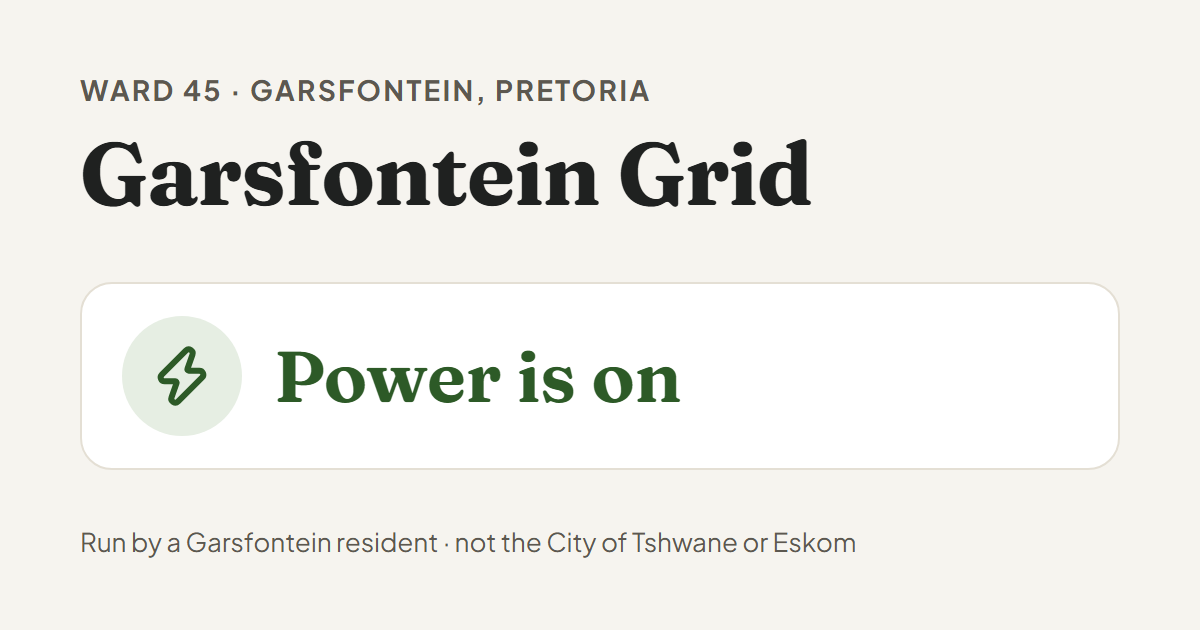
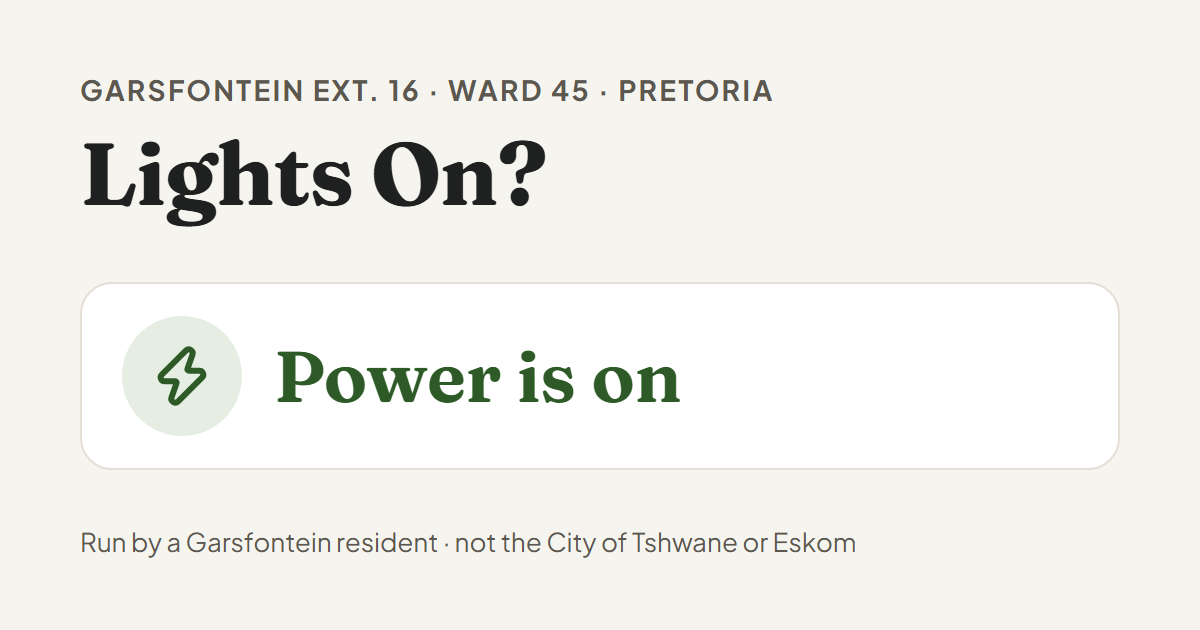
Rename to Lights On, Garsfontein? and name Extension 16
The detector is in Garsfontein Extension 16 (Ward 45), so the copy says so.
Short name fits the home screen; OG cards regenerated. The Worker and D1
names keep the old slug so the deployment is unaffected.

Changed region(s): [[0.0617, 0.2111, 0.6783, 0.3619], [0.0617, 0.1206, 0.6475, 0.181]]

diff --git a/index.html b/index.html
@@ -12,10 +12,10 @@
         } catch (e) {}
       })();
     </script>
-    <title>Garsfontein Grid · Is the power on in Garsfontein, Pretoria?</title>
+    <title>Lights On, Garsfontein? · Is the power on in Garsfontein, Pretoria?</title>
     <meta
       name="description"
-      content="Is the power on in Garsfontein? Live status and a running record of power cuts in Garsfontein (Ward 45, Region 6, City of Tshwane), Pretoria, kept since 17 October 2026."
+      content="Is the power on in Garsfontein? Live status and a running record of power cuts in Garsfontein, Pretoria (measured in Extension 16, Ward 45, Region 6, City of Tshwane), kept since 17 October 2026."
     />
     <link rel="canonical" href="https://garsfontein.timothybrits.co.za/" />
     <meta name="theme-color" content="#F6F4EF" media="(prefers-color-scheme: light)" />
@@ -27,10 +27,10 @@
     <link rel="preload" as="font" type="font/woff2" crossorigin href="/fonts/plus-jakarta-sans-latin-wght.woff2" />
 
     <meta property="og:type" content="website" />
-    <meta property="og:site_name" content="Garsfontein Grid" />
+    <meta property="og:site_name" content="Lights On, Garsfontein?" />
     <meta property="og:locale" content="en_ZA" />
     <meta property="og:url" content="https://garsfontein.timothybrits.co.za/" />
-    <meta property="og:title" content="Garsfontein Grid · Is the power on in Garsfontein?" />
+    <meta property="og:title" content="Lights On, Garsfontein? · Is the power on in Garsfontein?" />
     <meta
       property="og:description"
       content="Live power status and a running record of outages in Garsfontein, Pretoria."
@@ -38,21 +38,21 @@
     <meta property="og:image" content="https://garsfontein.timothybrits.co.za/og.png" />
     <meta property="og:image:width" content="1200" />
     <meta property="og:image:height" content="630" />
-    <meta property="og:image:alt" content="Garsfontein Grid: current power status in Garsfontein, Pretoria" />
+    <meta property="og:image:alt" content="Lights On? Current power status in Garsfontein, Pretoria" />
     <meta name="twitter:card" content="summary_large_image" />
 
     <script type="application/ld+json">
       {
         "@context": "https://schema.org",
         "@type": "Service",
-        "name": "Garsfontein Grid",
+        "name": "Lights On, Garsfontein?",
         "alternateName": "Garsfontein power status",
         "description": "An open record of power cuts for homes on the Garsfontein substation in Pretoria, kept since 17 October 2026. Run by a local resident; not affiliated with the City of Tshwane or Eskom.",
         "url": "https://garsfontein.timothybrits.co.za/",
         "serviceType": "Power outage tracking",
         "areaServed": {
           "@type": "AdministrativeArea",
-          "name": "Garsfontein, Ward 45, Pretoria",
+          "name": "Garsfontein Extension 16, Ward 45, Pretoria",
           "containedInPlace": {
             "@type": "AdministrativeArea",
             "name": "Region 6, City of Tshwane",
@@ -79,8 +79,8 @@
       <div class="gg-shell">
         <header class="gg-masthead">
           <div>
-            <p class="gg-eyebrow">Ward 45 · Garsfontein, Pretoria</p>
-            <h1 class="gg-title">Garsfontein Grid</h1>
+            <p class="gg-eyebrow">Garsfontein Ext. 16 · Ward 45 · Pretoria</p>
+            <h1 class="gg-title">Lights On?</h1>
           </div>
           <button type="button" class="gg-icon-button" aria-label="Switch theme" disabled></button>
         </header>
@@ -130,7 +130,7 @@
           </section>
         </main>
       </div>
-      <noscript><p class="gg-shell">Garsfontein Grid needs JavaScript. The live status is also available at /api/status.</p></noscript>
+      <noscript><p class="gg-shell">This site needs JavaScript. The live status is also available at /api/status.</p></noscript>
     </div>
     <script type="module" src="/src/index.tsx"></script>
   </body>

diff --git a/public/privacy.html b/public/privacy.html
@@ -12,8 +12,8 @@
         } catch (e) {}
       })();
     </script>
-    <title>Privacy · Garsfontein Grid</title>
-    <meta name="description" content="How Garsfontein Grid handles your information under POPIA." />
+    <title>Privacy · Lights On, Garsfontein?</title>
+    <meta name="description" content="How Lights On, Garsfontein? handles your information under POPIA." />
     <link rel="canonical" href="https://garsfontein.timothybrits.co.za/privacy" />
     <link rel="icon" href="/favicon.ico" sizes="32x32" />
     <link rel="icon" href="/favicon.svg" type="image/svg+xml" />
@@ -23,12 +23,12 @@
   </head>
   <body>
     <main>
-      <p><a href="/">← Garsfontein Grid</a></p>
+      <p><a href="/">← Lights On, Garsfontein?</a></p>
       <h1>Privacy notice</h1>
       <p class="updated">Last updated 17 October 2026</p>
 
       <p>
-        Garsfontein Grid keeps an open record of power cuts for homes on the Garsfontein substation in Pretoria. It is
+        This site keeps an open record of power cuts for homes on the Garsfontein substation in Pretoria. It is
         run by a local resident and is not affiliated with the City of Tshwane or Eskom. This notice explains what the
         site does with information about you, in line with the Protection of Personal Information Act (POPIA).
       </p>
@@ -78,7 +78,7 @@
       <h2>Contact</h2>
       <p>
         Questions or requests:
-        <a href="https://github.com/mooship/garsfontein-grid/issues">open an issue on GitHub</a>.
+        <a href="https://github.com/mooship/lights-on-garsfontein/issues">open an issue on GitHub</a>.
       </p>
     </main>
   </body>

diff --git a/e2e/app.spec.ts b/e2e/app.spec.ts
@@ -138,7 +138,7 @@ test.describe('admin', () => {
 
     await page.goto('/');
     await expect(page.getByRole('status')).toContainText('Power is off');
-    await expect(page).toHaveTitle(/^OFF \d+m · Garsfontein Grid$/);
+    await expect(page).toHaveTitle(/^OFF \d+m · Lights On\?$/);
     await expect(page.locator('link[rel="icon"][type="image/svg+xml"]')).toHaveAttribute('href', '/favicon-off.svg');
 
     await login(page);
@@ -146,7 +146,7 @@ test.describe('admin', () => {
     await expect(page.getByTestId('punch-clock')).toHaveText('00:00:00');
     await page.goto('/');
     await expect(page.getByRole('status')).toContainText('Power is on');
-    await expect(page).toHaveTitle('ON · Garsfontein Grid');
+    await expect(page).toHaveTitle('ON · Lights On?');
   });
 
   test('logs a past outage', async ({ page }) => {

diff --git a/src/App.tsx b/src/App.tsx
@@ -35,8 +35,8 @@ const Masthead: Component<{ notice: boolean }> = (props) => (
   <>
     <header class="gg-masthead">
       <div>
-        <p class="gg-eyebrow">Ward 45 · Garsfontein, Pretoria</p>
-        <h1 class="gg-title">Garsfontein Grid</h1>
+        <p class="gg-eyebrow">Garsfontein Ext. 16 · Ward 45 · Pretoria</p>
+        <h1 class="gg-title">Lights On?</h1>
       </div>
       <ThemeToggle />
     </header>
@@ -57,7 +57,7 @@ const Footer: Component<{ signIn: boolean }> = (props) => (
         </a>
       </Show>
     </nav>
-    <p>Garsfontein, Pretoria · Ward 45 (DA) · Region 6, City of Tshwane · Garsfontein substation</p>
+    <p>Measured in Garsfontein Ext. 16, Pretoria · Ward 45 (DA) · Region 6, City of Tshwane · Garsfontein substation</p>
   </footer>
 );
 

diff --git a/scripts/build-og.ts b/scripts/build-og.ts
@@ -41,7 +41,7 @@ h1 { font-family: Fraunces, serif; font-size: 88px; font-weight: 700; margin-top
 .label { font-family: Fraunces, serif; font-size: 72px; font-weight: 650; color: ${card.color}; }
 .foot { font-size: 26px; color: #5C5850; }
 </style></head><body>
-<div><p class="eyebrow">Ward 45 · Garsfontein, Pretoria</p><h1>Garsfontein Grid</h1></div>
+<div><p class="eyebrow">Garsfontein Ext. 16 · Ward 45 · Pretoria</p><h1>Lights On?</h1></div>
 <div class="status"><div class="icon"><svg width="64" height="64" viewBox="0 0 24 24" fill="none"
   stroke="currentColor" stroke-width="2.25" stroke-linecap="round" stroke-linejoin="round"><path d="${card.glyph}"/></svg></div>
   <p class="label">${card.label}</p></div>

diff --git a/src/lib/tab.ts b/src/lib/tab.ts
@@ -26,7 +26,7 @@ export function useStatusTab(status: Accessor<StatusResponse | undefined>, minut
     const s = status();
     if (!s) return;
     const duration = s.status === 'OFF' && s.since ? ` ${compactDuration(minute() - Date.parse(s.since))}` : '';
-    document.title = `${s.status}${duration} · Garsfontein Grid`;
+    document.title = `${s.status}${duration} · Lights On?`;
     if (icon) icon.href = s.status === 'ON' ? '/favicon-on.svg' : '/favicon-off.svg';
   });
 

diff --git a/src/components/Trends.tsx b/src/components/Trends.tsx
@@ -287,7 +287,7 @@ export const Trends: Component<TrendsProps> = (props) => {
             </For>
           </tbody>
         </table>
-        <a class={css.download} href="/api/outages.csv" download="garsfontein-grid-outages.csv">
+        <a class={css.download} href="/api/outages.csv" download="lights-on-garsfontein-outages.csv">
           <Download size={14} aria-hidden="true" /> Download the full record (CSV)
         </a>
       </details>

diff --git a/README.md b/README.md
@@ -1,14 +1,14 @@
-# Garsfontein Grid
+# Lights On, Garsfontein?
 
-A running record of power outages in Garsfontein, Pretoria. It shows whether the power is on right now and keeps a history of every outage, so it is easy to see how often the power goes off and whether that is changing.
+A running record of power outages in Garsfontein, Pretoria, measured by a sensor in **Garsfontein Extension 16** (Ward 45). It shows whether the power is on right now and keeps a history of every outage, so it is easy to see how often the power goes off and whether that is changing.
 
 Live at **https://garsfontein.timothybrits.co.za**. Records start on **17 October 2026**.
 
-> Run by a Garsfontein resident. Not affiliated with the City of Tshwane or Eskom.
+> Run by a Garsfontein Ext. 16 resident. Not affiliated with the City of Tshwane or Eskom.
 
 ## Area covered
 
-Garsfontein is in Ward 45, Region 6 of the City of Tshwane. Homes are supplied by the **Garsfontein substation**, which is fed from **Highlands**, which is fed from **Njala**. Much of that equipment has little modern protection, so a single fault usually cuts the whole Garsfontein substation area at once. One household's record is therefore a fair guide for the neighbourhood.
+The sensor is in a home in **Garsfontein Extension 16**, part of Ward 45 in Region 6 of the City of Tshwane. Readings are exact for Ext. 16. Homes are supplied by the **Garsfontein substation**, which is fed from **Highlands**, which is fed from **Njala**. Much of that equipment has little modern protection, so a single fault usually cuts the whole Garsfontein substation area at once. One household's record is therefore a fair guide for the rest of Garsfontein too, but an outage limited to another extension will not show up.
 
 ## Features
 
@@ -68,11 +68,7 @@ npm run deploy                                 # build, apply migrations, deploy
 
 Optional secrets: `ADMIN_API_TOKEN` (scripts and agents) and `HEARTBEAT_TOKEN` (a sensor).
 
-**Changing the admin password.** Set a new hash as above, then sign out every existing session:
-
-```sh
-npx wrangler d1 execute DB --remote --command "DELETE FROM sessions"
-```
+**Changing the admin password.** Set a new hash as above. Each session stores a short fingerprint of `ADMIN_PASSWORD_HASH`, so every existing session is refused (and deleted) on its next use; there is nothing to clear by hand. Sessions slide for 30 days after the last visit but never last more than 90 days after sign-in.
 
 **Continuous deployment.** Cloudflare Workers Builds deploys every push to `main` with `npm run deploy:ci`, which applies pending D1 migrations first and only then deploys the new code. If a migration fails, the deploy stops and the previous version stays live. Pull requests are tested by GitHub Actions and are not deployed.
 
